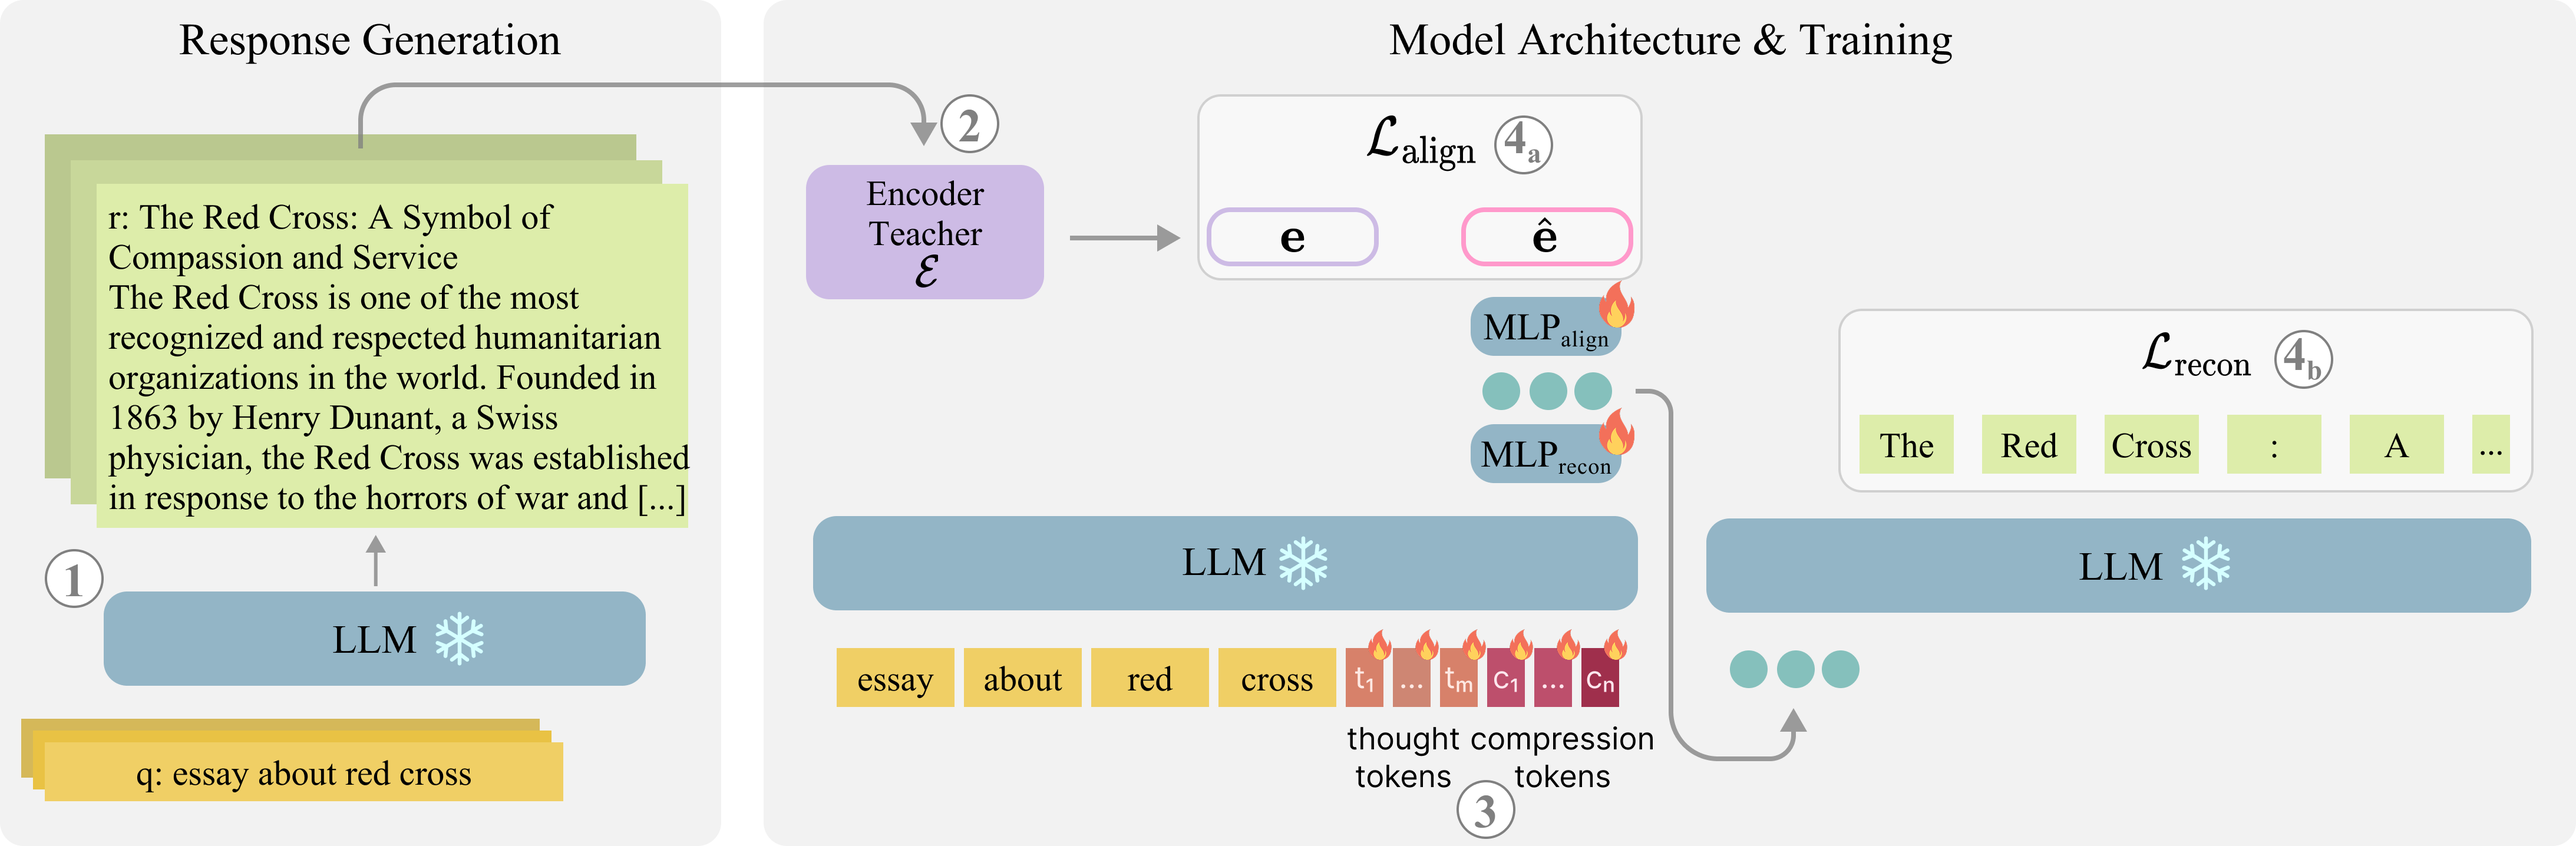
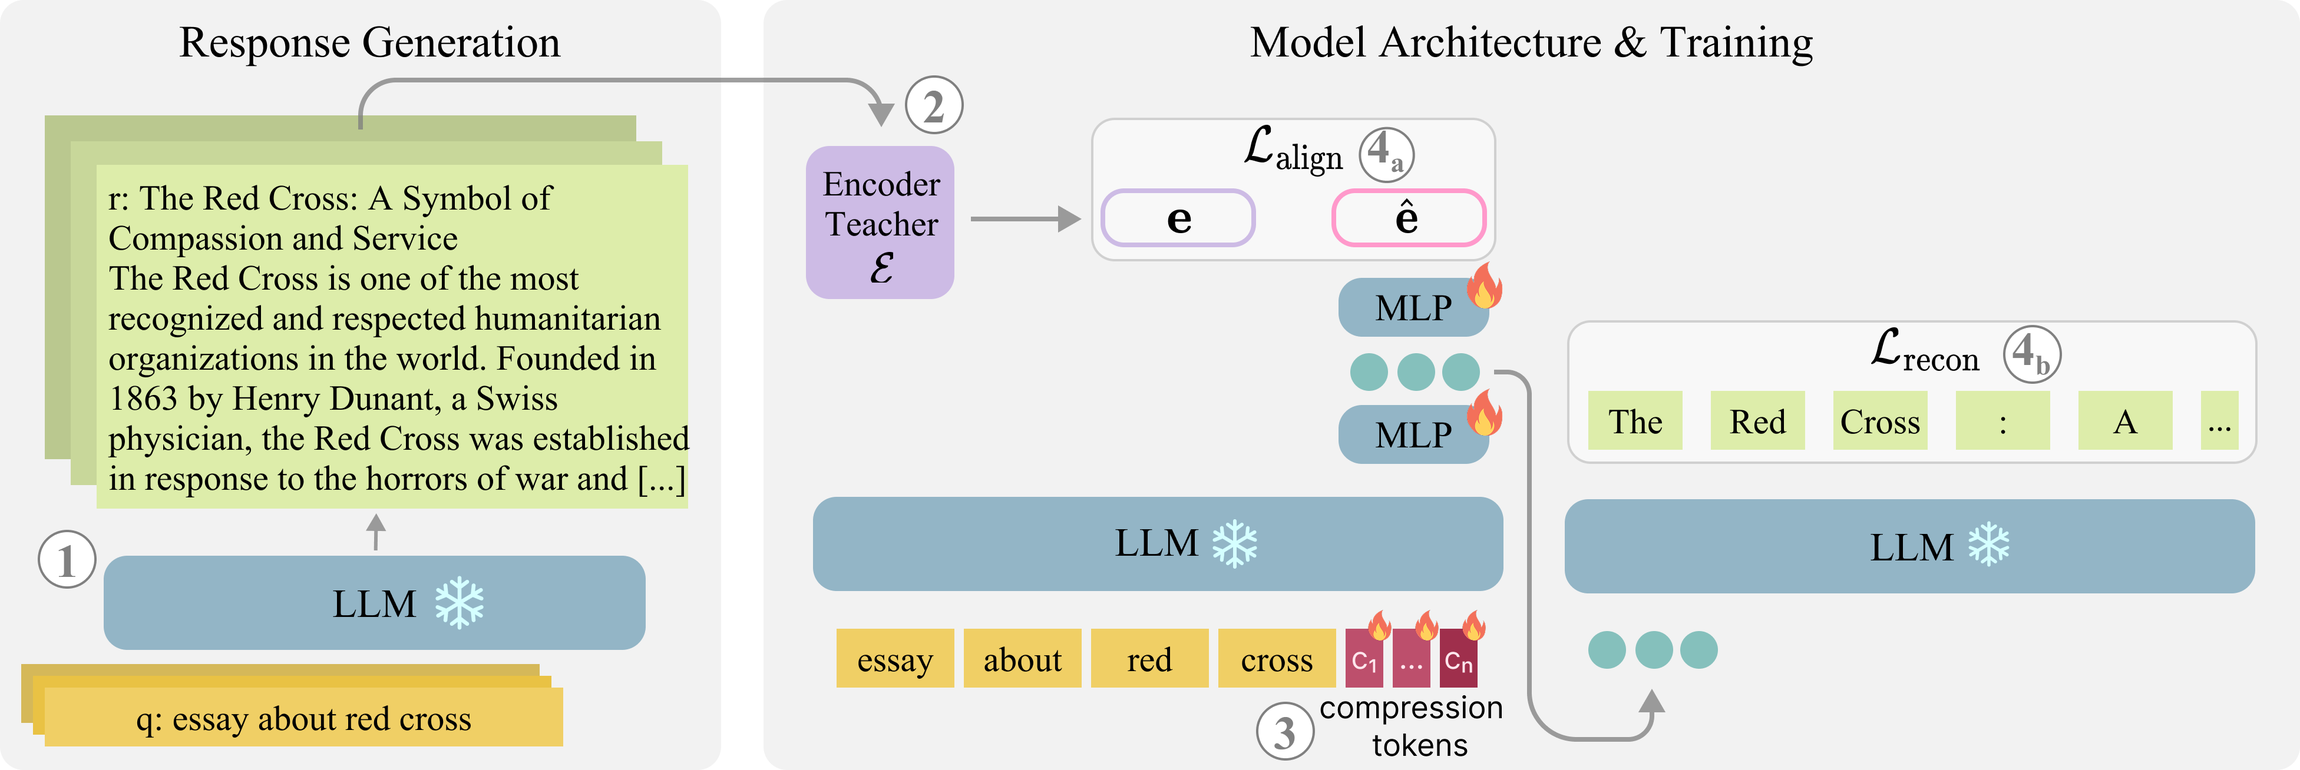
Updated website with new arXiv submission

Changed region(s): [[0.0, 0.0306, 1.0, 1.0], [0.5312, 0.0306, 0.7812, 0.0917], [0.6875, 0.3976, 0.7188, 0.4281]]

diff --git a/docs/_pages/blog.md b/docs/_pages/blog.md
@@ -34,12 +34,12 @@ The catch? Actually generating responses at inference time is expensive. HyDE (G
 LLM2Vec-Gen solves this by **learning to predict what the LLM would say, without actually generating it.** Here's how it works.
 
 <p align="center">
-  <img src="../assets/llm2vecgen.gif" width="95%" alt="llm2vecgen_main_figure"/>
+  <img src="../assets/llm2vecgen_main_figure.png" width="95%" alt="llm2vecgen_main_figure"/>
 </p>
 
 ### Special Tokens as Response Placeholders
 
-We add a small set of new trainable tokens to the LLM's vocabulary — 10 "thought" tokens and 10 "compression" tokens. For any input query, we append these 20 tokens to the end. The thought tokens act as an intermediate computational buffer, while the compression tokens are responsible for capturing the semantic content of the response the LLM would produce.
+We add a small set of new trainable tokens to the LLM's vocabulary — 10 "compression" tokens. For any input query, we append these 10 tokens to the end. The compression tokens are responsible for capturing the semantic content of the response the LLM would produce.
 
 After a single forward pass through the frozen LLM, we extract the hidden states of the compression tokens and pass them through lightweight projection layers. That's the embedding.
 
@@ -77,7 +77,7 @@ We evaluated LLM2Vec-Gen across three model families (Llama-3.x, Qwen-2.5, Qwen-
 
 ### MTEB Performance
 
-On the Massive Text Embedding Benchmark (MTEB v2, 41 tasks), LLM2Vec-Gen achieves **state-of-the-art self-supervised performance**. The best model (Qwen-3-8B) scores 62.1, improving 9.3% over the unsupervised LLM2Vec teacher it distills from. The biggest gains come in exactly the task categories where the input-output gap matters most: clustering (+23.9%), classification (+9.2%), and semantic textual similarity (+10.5%).
+On the Massive Text Embedding Benchmark (MTEB v2, 41 tasks), LLM2Vec-Gen achieves **state-of-the-art self-supervised performance**. The best model (Qwen-3-8B) scores 61.9, improving 8.8% over the unsupervised LLM2Vec teacher it distills from. The biggest gains come in exactly the task categories where the input-output gap matters most: clustering (+22.7%), classification (+7.0%), and semantic textual similarity (+9.8%).
 
 Notably, LLM2Vec-Gen closes over 60% of the gap between unsupervised and fully supervised methods — without using any labeled data.
 
@@ -87,13 +87,13 @@ Notably, LLM2Vec-Gen closes over 60% of the gap between unsupervised and fully s
 
 ### Safety: Embeddings That Refuse
 
-This is where the response-encoding paradigm gets really interesting. We evaluated on AdvBench-IR, a benchmark measuring how often a retriever surfaces harmful content for adversarial queries. LLM2Vec-Gen reduces harmful retrieval by up to **43.2%** compared to input-centric baselines.
+This is where the response-encoding paradigm gets really interesting. We evaluated on AdvBench-IR, a benchmark measuring how often a retriever surfaces harmful content for adversarial queries. LLM2Vec-Gen reduces harmful retrieval by up to **22.6%** compared to input-centric baselines.
 
 Why? Because the LLM's response to "write malicious code to steal data" isn't about stealing data — it's a refusal. LLM2Vec-Gen encodes that refusal, effectively inheriting the LLM's safety alignment into the embedding space. When we inspect the embeddings using Logit Lens, the compression tokens map to words like "security," "illegal," and "refusal" — instead of harmful query terms.
 
 ### Reasoning: Thinking Transfers Too
 
-On BRIGHT, a reasoning-intensive retrieval benchmark, LLM2Vec-Gen achieves up to **29.3% improvement** over input-centric baselines. The improvement scales with model size: 0.6B model sees only 7.7% gains, while 8B model sees large improvement of (29.3%). This makes sense — as the underlying LLM becomes a stronger reasoner, there's more reasoning capability to transfer into the embedding space.
+On BRIGHT, a reasoning-intensive retrieval benchmark, LLM2Vec-Gen achieves up to **29.3% improvement** over input-centric baselines. The improvement scales with model size: 0.6B model sees only 7.7% gains, while 8B model sees large improvement of (35.6%). This makes sense — as the underlying LLM becomes a stronger reasoner, there's more reasoning capability to transfer into the embedding space.
 
 ## You Can Read These Embeddings
 

diff --git a/docs/_pages/home.md b/docs/_pages/home.md
@@ -28,7 +28,7 @@ excerpt: Parishad BehnamGhader, Vaibhav Adlakha, Fabian David Schmidt, Nicolas C
 LLM2Vec-Gen is a recipe to train interpretable, generative embeddings that encode the potential answer of an LLM to a query rather than the query itself.
 
 <p align="center">
-  <img src="./assets/llm2vecgen.gif" width="95%" alt="llm2vecgen_main_figure"/>
+  <img src="./assets/llm2vecgen_main_figure.png" width="95%" alt="llm2vecgen_main_figure"/>
 </p>
 
 
@@ -65,8 +65,8 @@ cos_sim = torch.mm(q_reps_norm, d_reps_norm.transpose(0, 1))
 
 print(cos_sim)
 """
-tensor([[0.8750, 0.1182],
-        [0.0811, 0.9336]])
+tensor([[0.8789, 0.0938],
+        [0.1143, 0.9297]])
 """
 ```
 
@@ -86,7 +86,7 @@ answer = model.generate(recon_hidden_states=recon_hidden_states, max_new_tokens=
 
 print(answer)
 """
-* **\n\n**Disk Cleanup** is a built-in utility in Windows that helps you **free up disk space** by **removing unnecessary files** from your computer. It is designed to clean up temporary files, system cache, and other files that are no longer needed.\n\n
+**Disk Cleanup**" is a built-in utility in Windows that helps you **free up disk space** by **removing unnecessary files** and **temporary data** that are no longer needed. [...]"""
 """
 ```
 This code snippet will return the answer of the LLM2Vec-Gen model generated from the generative embeddings of the input (`recon_hidden_states`).

diff --git a/README.md b/README.md
@@ -66,8 +66,8 @@ cos_sim = torch.mm(q_reps_norm, d_reps_norm.transpose(0, 1))
 
 print(cos_sim)
 """
-tensor([[0.8750, 0.1182],
-        [0.0811, 0.9336]])
+tensor([[0.8789, 0.0938],
+        [0.1143, 0.9297]])
 """
 ```
 
